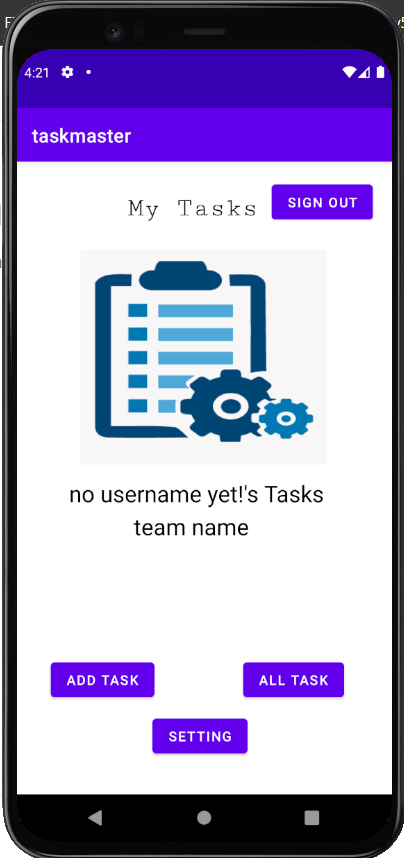
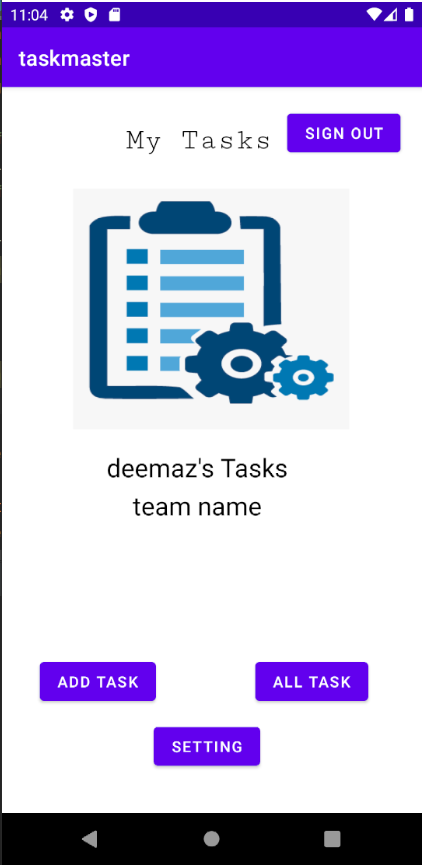
edit readme file

diff --git a/app/src/main/java/com/example/taskmaster/MainActivity.java b/app/src/main/java/com/example/taskmaster/MainActivity.java
@@ -161,7 +161,6 @@ public class MainActivity extends AppCompatActivity implements TaskAdapter.OnTas
 //                response -> Log.i("MyAmplifyApp", "Added Task with id: " + response.getData().getId()),
 //                error -> Log.e("MyAmplifyApp", "Create failed", error)
 //        );
-
     }//OnCreate
 
 
@@ -185,7 +184,7 @@ public class MainActivity extends AppCompatActivity implements TaskAdapter.OnTas
 
         }
         else{
-            userNameText.setText("no username!"+ "'s Tasks");
+            userNameText.setText("no username yet!"+ "'s Tasks");
 
         }
 

diff --git a/README.md b/README.md
@@ -148,15 +148,16 @@ Task Master is an android application for android users to manage their tasks.
 
 ## Lab36 -
 * Add Cognito to Amplify setup. Add in user login and sign up flows to the application.
+* Display the logged in user’s username in Home Page.
 * Allow users to log out of your application.
 
 * At home page - have Login button directed you to sign up and login flow 
 ![Homesignin](screenshots/Homesignin.png)
 
-![Homesignin](screenshots/signinpage.png)
+![Homesignin](screenshots/Signin.png)
 
 * after sign in the button at home page converted to sign out to allow users to log out of application.
-![Homesignin](screenshots/signout.png)
+![Homesignin](screenshots/SignOut.png)
 
 
 
